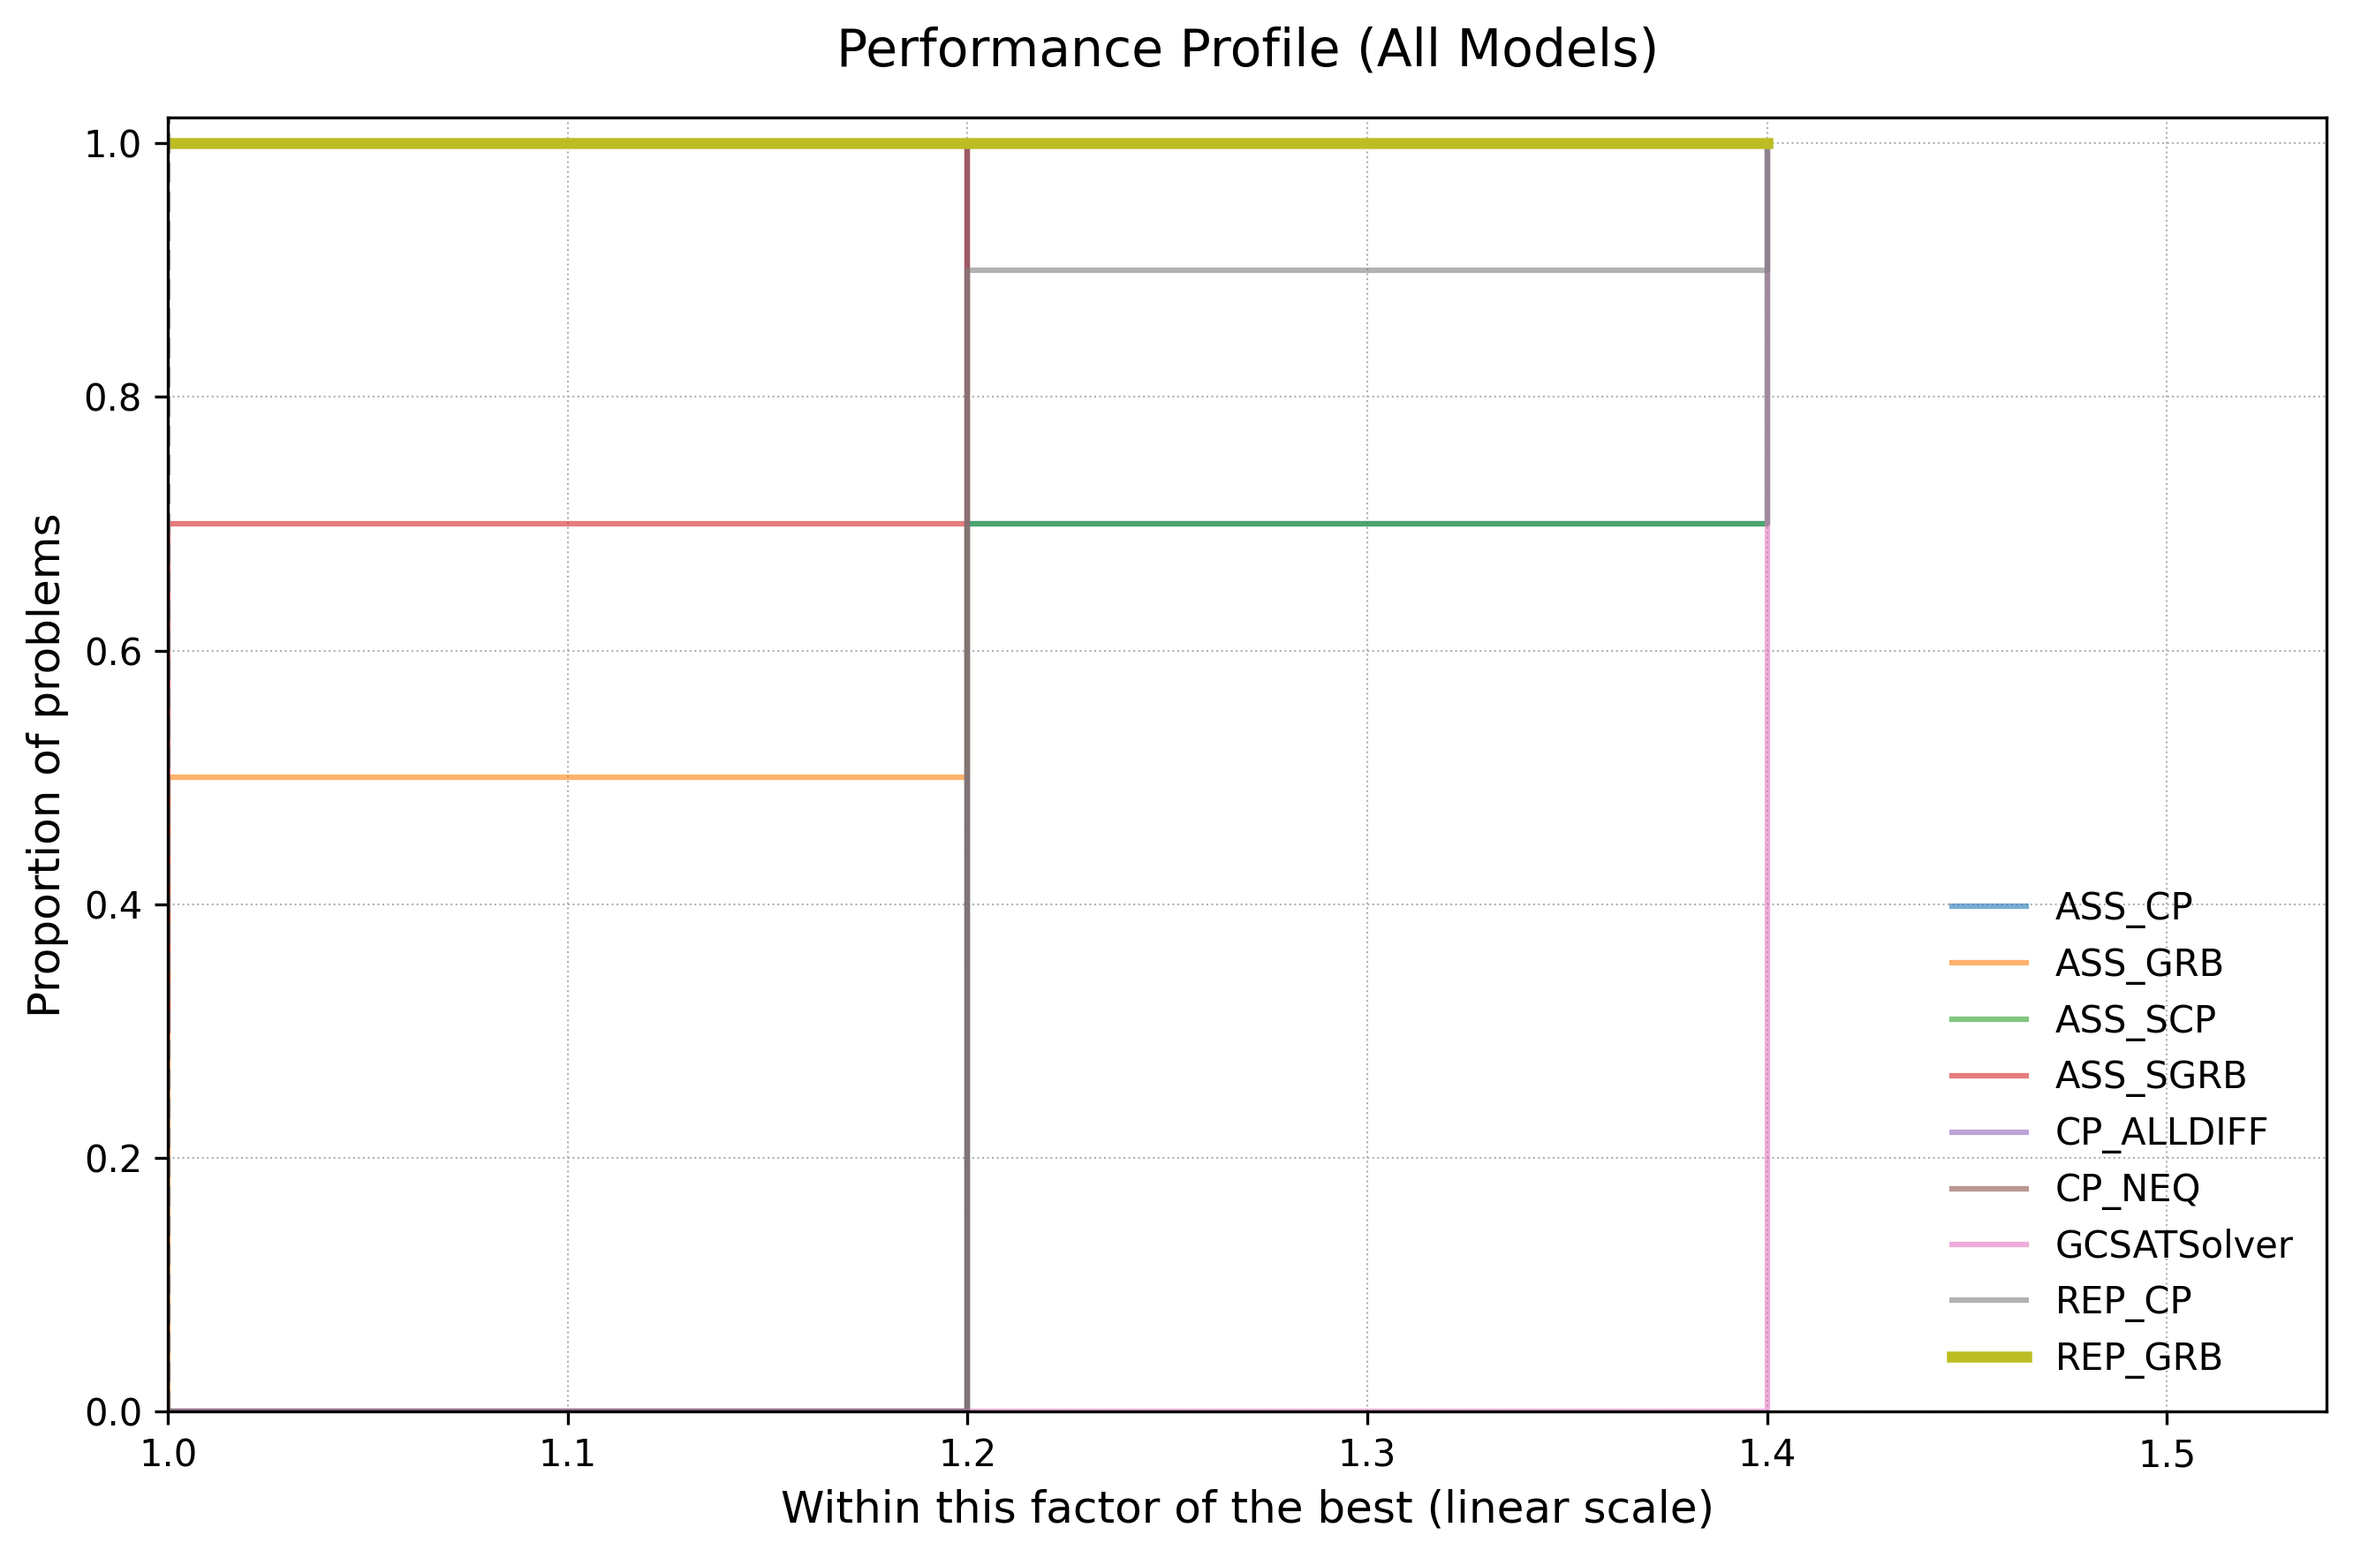
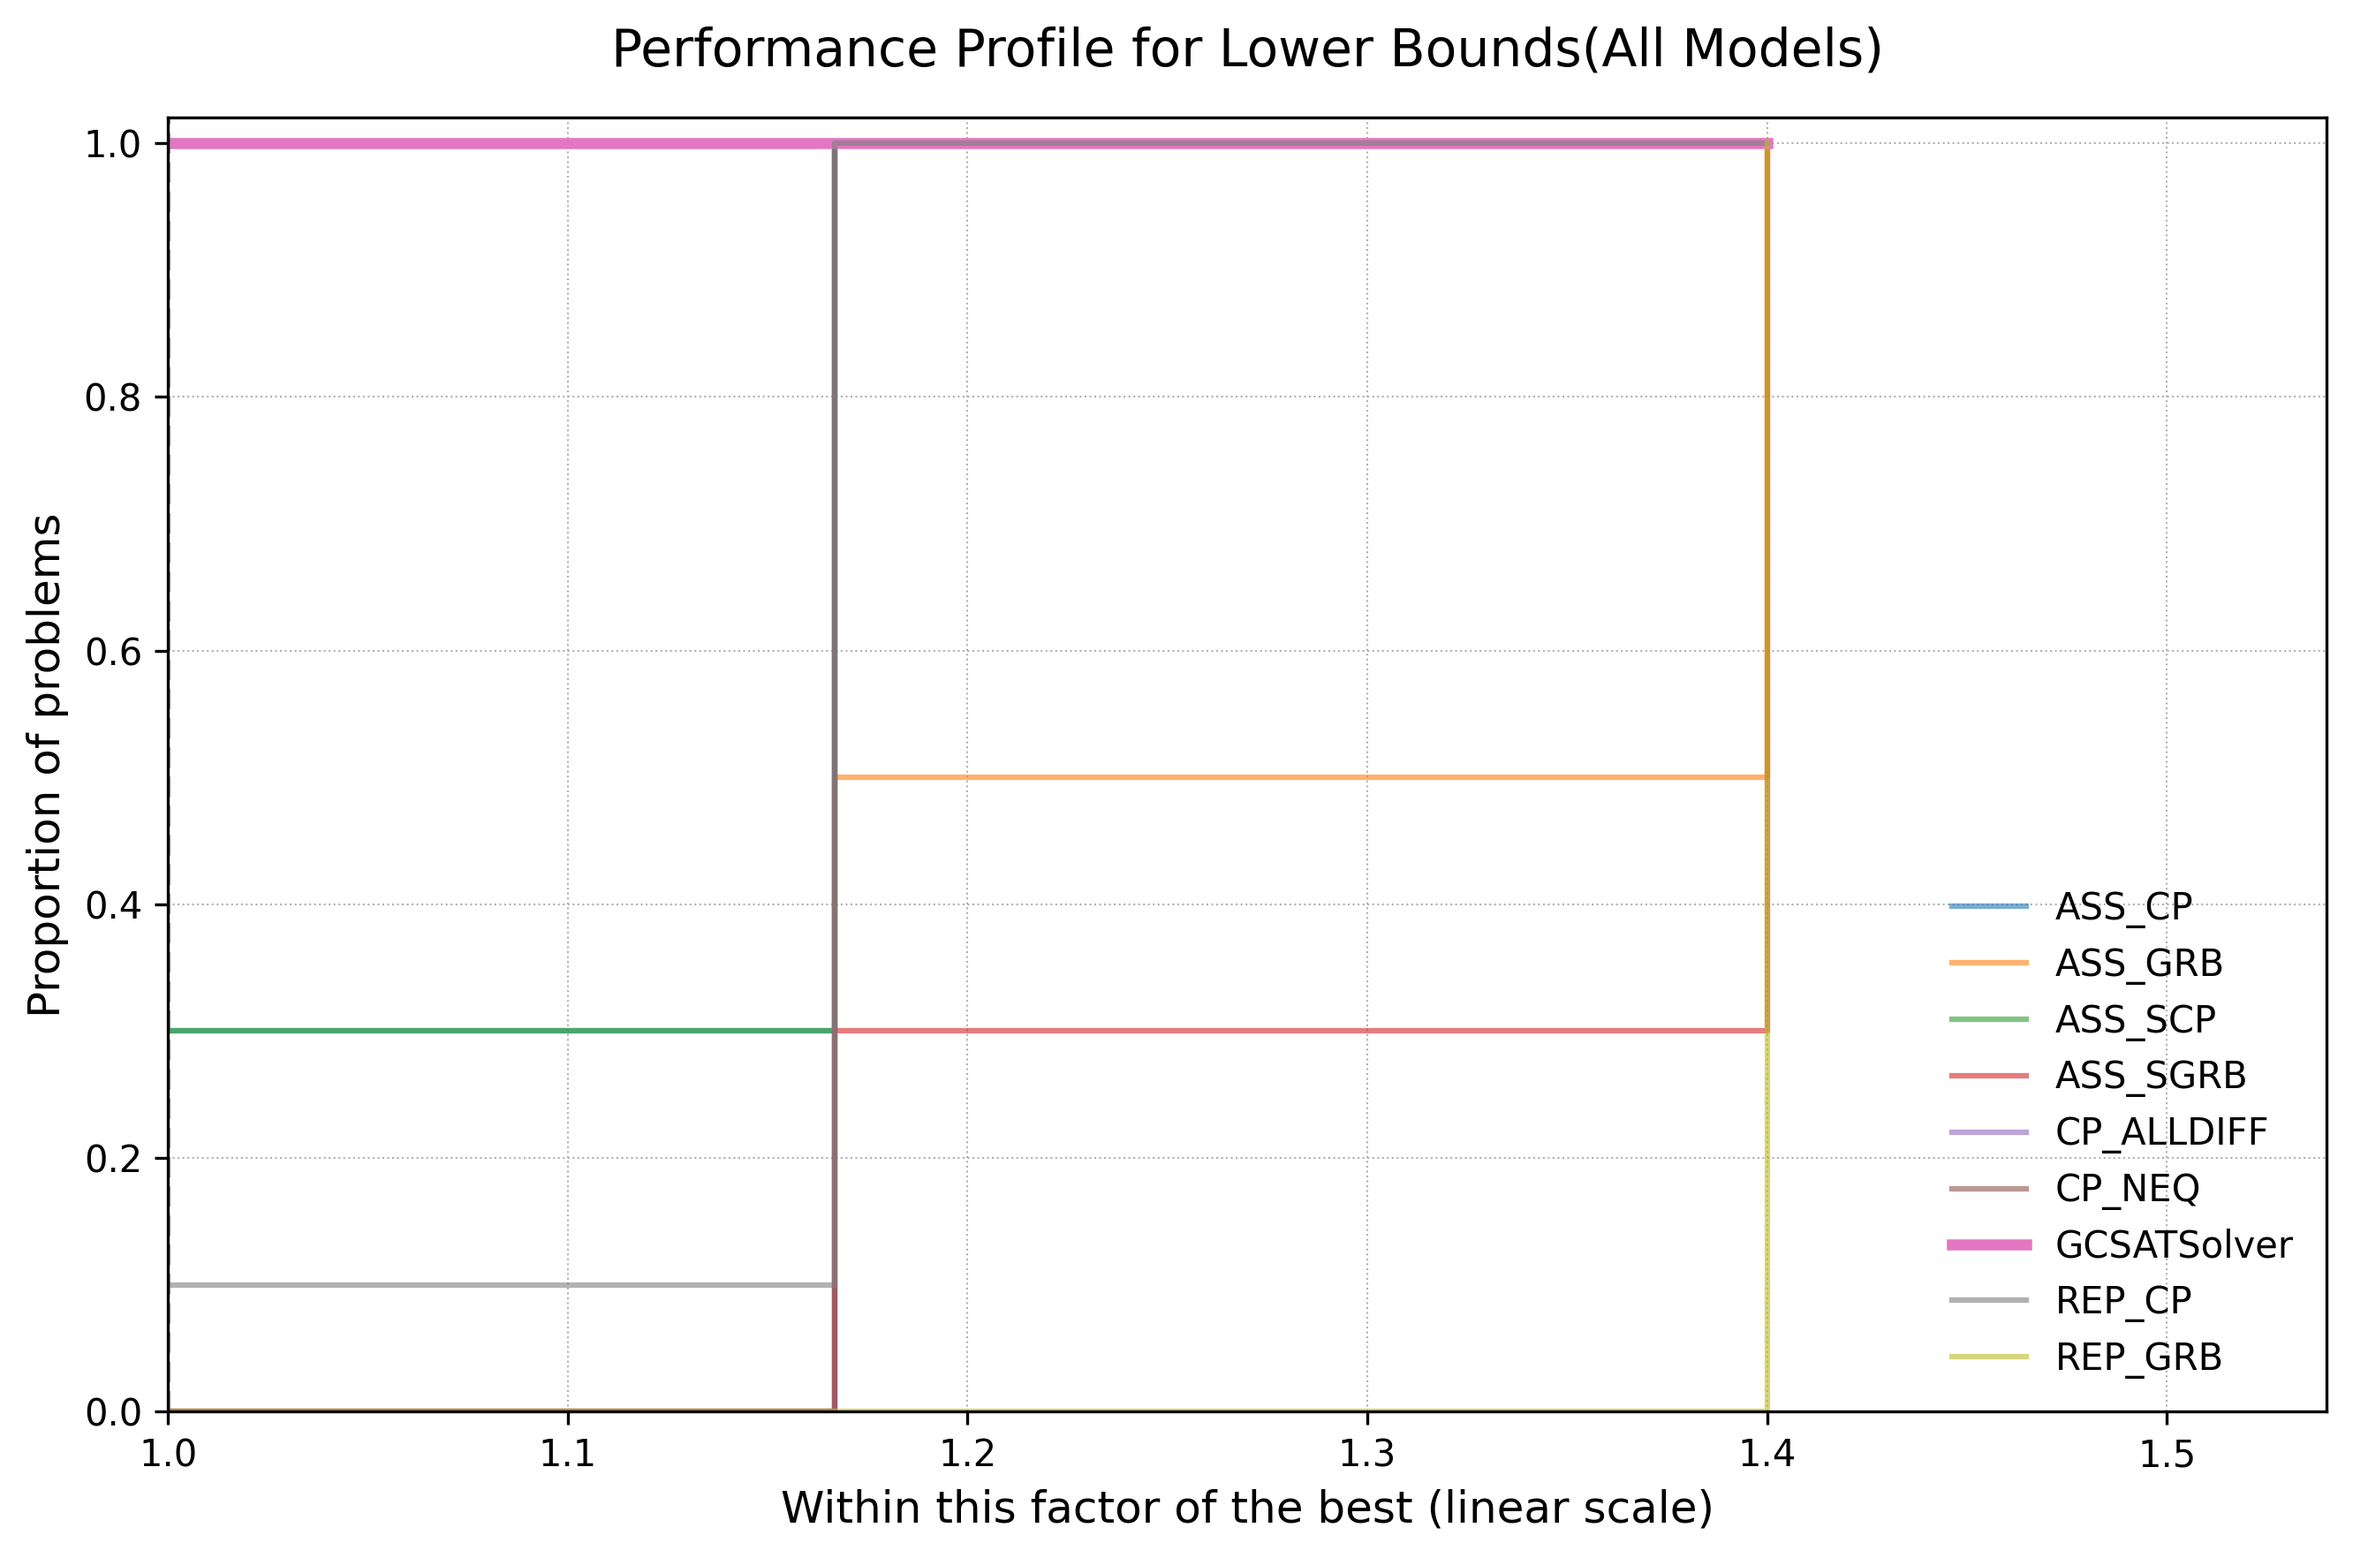
preprocessor implemented and tested

diff --git a/sheets/05_graph_coloring/eprugho99.py b/sheets/05_graph_coloring/eprugho99.py
@@ -28,9 +28,12 @@ data = pd.DataFrame({
 
 
 
-instances = [0, 0, 0, 1, 1, 1, 2, 2, 2, 3, 3, 3, 4, 4, 4, 5, 5, 5, 6, 6, 6, 7, 7, 7, 8, 8, 8, 9, 9, 9]
-strategies = ["ASS_GRB", "ASS_SGRB", "REP_GRB", "ASS_GRB", "ASS_SGRB", "REP_GRB", "ASS_GRB", "ASS_SGRB", "REP_GRB", "ASS_GRB", "ASS_SGRB", "REP_GRB", "ASS_GRB", "ASS_SGRB", "REP_GRB", "ASS_GRB", "ASS_SGRB","REP_GRB", "ASS_GRB", "ASS_SGRB", "REP_GRB", "ASS_GRB", "ASS_SGRB", "REP_GRB", "ASS_GRB", "ASS_SGRB", "REP_GRB", "ASS_GRB", "ASS_SGRB", "REP_GRB"]
-metrics = [5.000000000000057, 5.000000000000002, 5.000000000000001, 5.000000000000117, 5.00000000000005, 5.0, 5.0000000000023235, 5.0, 5.0, 6.000000000000071, 6.000000000000007, 5.0, 6.0, 5.000000000000073, 5.0, 5.000000000000021, 5.0, 5.0, 6.000000000000001, 6.0, 5.0, 6.000000000000051, 6.0, 5.0, 5.000000000000025, 5.000000000000336, 5.0, 6.0, 5.0, 5.0]
+instances = [0, 0, 0, 1, 1, 1, 2, 2, 2, 3, 3, 3, 4, 4, 4, 5, 5, 5, 6, 6, 6, 7, 7, 7, 8, 8, 8, 9, 9, 9, 0, 0, 0, 0, 0, 0, 1, 1, 1, 1, 1, 1, 2, 2, 2, 2, 2, 2, 3, 3, 3, 3, 3, 3, 4, 4, 4, 4, 4, 4, 5, 5, 5, 5, 5, 5, 6, 6, 6, 6, 6, 6, 7, 7, 7, 7, 7, 7, 8, 8, 8, 8, 8, 8, 9, 9, 9, 9, 9, 9]
+
+strategies = ["ASS_GRB", "ASS_SGRB", "REP_GRB", "ASS_GRB", "ASS_SGRB", "REP_GRB", "ASS_GRB", "ASS_SGRB", "REP_GRB", "ASS_GRB", "ASS_SGRB", "REP_GRB", "ASS_GRB", "ASS_SGRB", "REP_GRB", "ASS_GRB", "ASS_SGRB", "REP_GRB", "ASS_GRB", "ASS_SGRB", "REP_GRB", "ASS_GRB", "ASS_SGRB", "REP_GRB", "ASS_GRB", "ASS_SGRB", "REP_GRB", "ASS_GRB", "ASS_SGRB", "REP_GRB", "GCSATSolver", "ASS_CP", "ASS_SCP", "REP_CP", "CP_NEQ", "CP_ALLDIFF", "GCSATSolver", "ASS_CP", "ASS_SCP", "REP_CP", "CP_NEQ", "CP_ALLDIFF", "GCSATSolver", "ASS_CP", "ASS_SCP", "REP_CP", "CP_NEQ", "CP_ALLDIFF", "GCSATSolver", "ASS_CP", "ASS_SCP", "REP_CP", "CP_NEQ", "CP_ALLDIFF", "GCSATSolver", "ASS_CP", "ASS_SCP", "REP_CP", "CP_NEQ", "CP_ALLDIFF", "GCSATSolver", "ASS_CP", "ASS_SCP", "REP_CP", "CP_NEQ", "CP_ALLDIFF", "GCSATSolver", "ASS_CP", "ASS_SCP", "REP_CP", "CP_NEQ", "CP_ALLDIFF", "GCSATSolver", "ASS_CP", "ASS_SCP", "REP_CP", "CP_NEQ", "CP_ALLDIFF", "GCSATSolver", "ASS_CP", "ASS_SCP", "REP_CP", "CP_NEQ", "CP_ALLDIFF", "GCSATSolver", "ASS_CP", "ASS_SCP", "REP_CP", "CP_NEQ", "CP_ALLDIFF"]
+
+metrics = [5.000000000000057, 5.000000000000002, 5.000000000000001, 5.000000000000117, 5.00000000000005, 5.0, 5.0000000000023235, 5.0, 5.0, 6.000000000000071, 6.000000000000007, 5.0, 6.0, 5.000000000000073, 5.0, 5.000000000000021, 5.0, 5.0, 6.000000000000001, 6.0, 5.0, 6.000000000000051, 6.0, 5.0, 5.000000000000025, 5.000000000000336, 5.0, 6.0, 5.0, 5.0, 7, 6.0, 6.0, 6.0, 6.0, 6.0, 7, 6.0, 6.0, 6.0, 6.0, 6.0, 7, 7.0, 7.0, 6.0, 6.0, 6.0, 7, 7.0, 7.0, 6.0, 6.0, 6.0, 7, 6.0, 6.0, 6.0, 6.0, 6.0, 7, 6.0, 6.0, 6.0, 6.0, 6.0, 7, 6.0, 6.0, 6.0, 6.0, 6.0, 7, 7.0, 7.0, 6.0, 6.0, 6.0, 7, 6.0, 6.0, 6.0, 6.0, 6.0, 7, 6.0, 6.0, 7.0, 6.0, 6.0]
+
 
 
 
@@ -43,6 +46,7 @@ for i in range(10):
         for u, v in graph.edges():
             file.write(f"e {u} {v}\n")
     """
+    """ 
     sat = GCSATSolver(graph)
     sol_sat = sat.solve(60)
     instances.append(i)
@@ -50,7 +54,6 @@ for i in range(10):
     metrics.append(sat.lb)
 
 
-    """
     ng = ASSGRB(graph)
     sol_ng = ng.solve(60)
     instances.append(i)
@@ -70,7 +73,6 @@ for i in range(10):
     instances.append(i)
     strategies.append("REP_GRB")
     metrics.append(ds.lb)
-    """
 
     ng = ASSCP(graph)
     sol_ng = ng.solve(60)
@@ -106,7 +108,7 @@ with open("all_lb_dataset.txt", "w", encoding="utf-8") as file:
     file.write(f"[{', '.join(map(str, instances))}]\n")
     file.write(f'''["{'", "'.join(strategies)}"]\n''')
     file.write(f"[{', '.join(map(str, metrics))}]\n")
-
+ """
 
 
 data = pd.DataFrame({
@@ -121,9 +123,9 @@ ax = ppp.plot_performance_profile(
     instance_column="instance",
     strategy_column="strategy",
     metric_column="metric",
-    direction="min",        # "min" wenn kleiner besser ist
+    direction="max",        # "min" wenn kleiner besser ist
     comparison="relative",  # oder "absolute"
-    title="Performance Profile (All Models)",
+    title="Performance Profile for Lower Bounds(All Models)",
     highlight_best=True,
 )
 

diff --git a/sheets/05_graph_coloring/models/preprocessor.py b/sheets/05_graph_coloring/models/preprocessor.py
@@ -7,31 +7,44 @@ class GCPreprocessor:
     This needs to be a class as it maintains state between the preprocessing and postprocessing steps.
     """
     def __init__(self, graph: nx.Graph):
-        self.graph = graph  # the original graph
+        self.graph = self.init_graph(graph)  # the original graph
         self.removed_vertices = []
         self.lower_bound = nx.approximation.large_clique_size(graph)
+        #print(f"lower bound: {self.lower_bound}")
+        #print([node for node in self.graph.nodes() if self.graph.degree(node) == 1])
+
+    def init_graph(self, G):
+
+        graph = nx.Graph()
+        for node in G.nodes:
+            graph.add_node(node, color=0)
+
+        graph.add_edges_from(G.edges)
+        return graph
+
 
     def preprocess(self) -> nx.Graph:
         """
         Return a preprocessed graph.
         """
         rdc_graph = self.graph.copy()
-        removable_vertices = [node for node in self.graph.nodes() if self.graph.degree(node) < self.lower_bound]
+        removable_vertices = [node for node in rdc_graph.nodes() if rdc_graph.degree(node) < self.lower_bound]
 
         while len(removable_vertices) > 0:
             node = removable_vertices.pop()
             self.removed_vertices.append(node)
+            neighbors = rdc_graph.neighbors(node)
             rdc_graph.remove_node(node)
-            removable_vertices.append([neighbor for neighbor in self.graph.neighbors(node) if rdc_graph.degree(neighbor) < self.lower_bound and neighbor not in removable_vertices])
+            removable_vertices += [neighbor for neighbor in neighbors if rdc_graph.degree(neighbor) < self.lower_bound and neighbor not in removable_vertices]
 
         return rdc_graph
 
 
-    def postprocess(self, sol_G: nx.Graph, colors):
+    def postprocess(self, sol_G: nx.Graph, cnum):
 
 
         for node in sol_G:
-            self.graph.nodes[node]["color"] = sol_G.graph.nodes[node]["color"]
+            self.graph.nodes[node]["color"] = sol_G.nodes[node]["color"]
         
         n = len(self.removed_vertices)        
         for i in range(1, n+1):
@@ -41,7 +54,7 @@ class GCPreprocessor:
             for neighbor in self.graph.neighbors(node):
                 used_colors[neighbor] = self.graph.nodes[neighbor]["color"]
 
-            for j in range(1, colors+1):
+            for j in range(1, cnum+1):
                 if j not in used_colors.values():
                     self.graph.nodes[node]["color"] = i
                     break

diff --git a/sheets/05_graph_coloring/verify_preprocess.py b/sheets/05_graph_coloring/verify_preprocess.py
@@ -1,0 +1,27 @@
+from _alglab_utils import CHECK, main, mandatory_testcase
+from _gclib import GCGraphInstance
+# from heuristics.naive_greedy import GCNaiveGreedy#
+from models.cp_sat.ass_cp import ASSCP
+from models.preprocessor import GCPreprocessor
+
+
+@mandatory_testcase(max_runtime_s=30)
+def queen6_6_ass():
+    gc = GCGraphInstance()
+    graph = gc.graphs["erdos_renyi_graph0"]
+    pp = GCPreprocessor(graph)
+    rdc_graph = pp.preprocess()
+    ng = ASSCP(rdc_graph)
+    solution = ng.solve()
+    ng.graph = pp.postprocess(ng.graph, solution)
+
+    print(len(graph.nodes))
+    print(len(rdc_graph.nodes))
+    print(len(ng.graph.nodes))
+
+    CHECK(solution == 7, f"Not the optimal solution: {solution} != 7")
+    CHECK((ng.graph.nodes[node]["color"] != ng.graph.nodes[neighbor]["color"] for node in ng.graph.nodes for neighbor in ng.graph.neighbors(node)), "There are adjacent nodes with the same color")
+
+
+if __name__ == "__main__":
+    main()

diff --git a/sheets/05_graph_coloring/_gclib.py b/sheets/05_graph_coloring/_gclib.py
@@ -14,7 +14,7 @@ class GCGraphInstance():
             match type:
                 case "barabasi":
                     for i in range(gen):
-                        graph = nx.barabasi_albert_graph(i+300, 20)
+                        graph = nx.barabasi_albert_graph(i+100, 12)
                         self.graphs[i] = graph
                 
                 case "kneser":
@@ -29,12 +29,12 @@ class GCGraphInstance():
 
                 case "cycle":
                     for i in range(gen):
-                        graph = nx.cycle_graph(i+300)
+                        graph = nx.cycle_graph(i+100)
                         self.graphs[i] = graph
 
                 case "wheel":
                     for i in range(gen):
-                        graph = nx.wheel_graph(i+500)
+                        graph = nx.wheel_graph(i+100)
                         self.graphs[i] = graph
 
              

diff --git a/sheets/05_graph_coloring/heuristics_performance_profile.py b/sheets/05_graph_coloring/heuristics_performance_profile.py
@@ -58,5 +58,5 @@ ax = ppp.plot_performance_profile(
 
 #plt.show()
 
-ax.figure.savefig("benchmarking/plots/heuristics/heuristics_performance_profile_cycle.png", dpi=300, bbox_inches="tight")
+ax.figure.savefig("benchmarking/plots/heuristics/heuristics_performance_profile_wheel.png", dpi=300, bbox_inches="tight")
 
